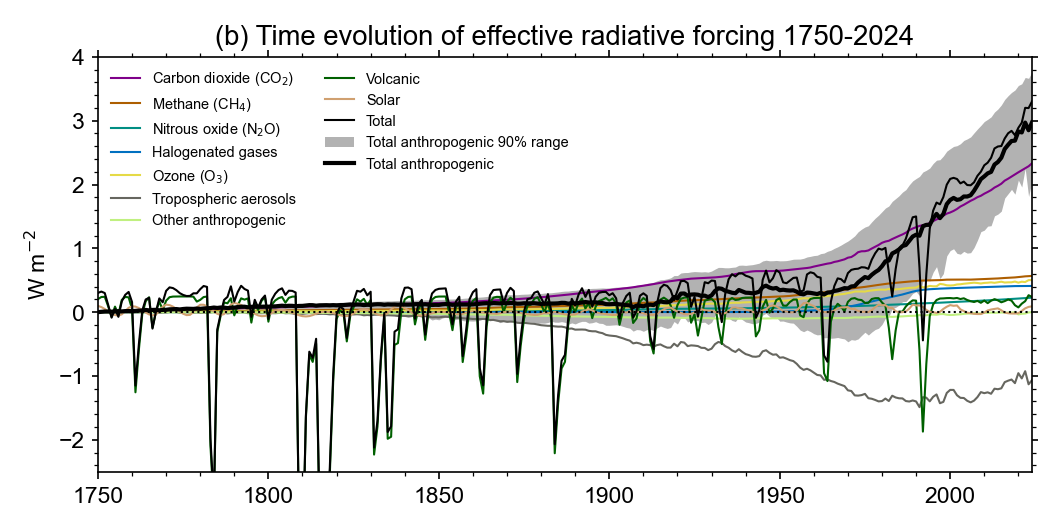
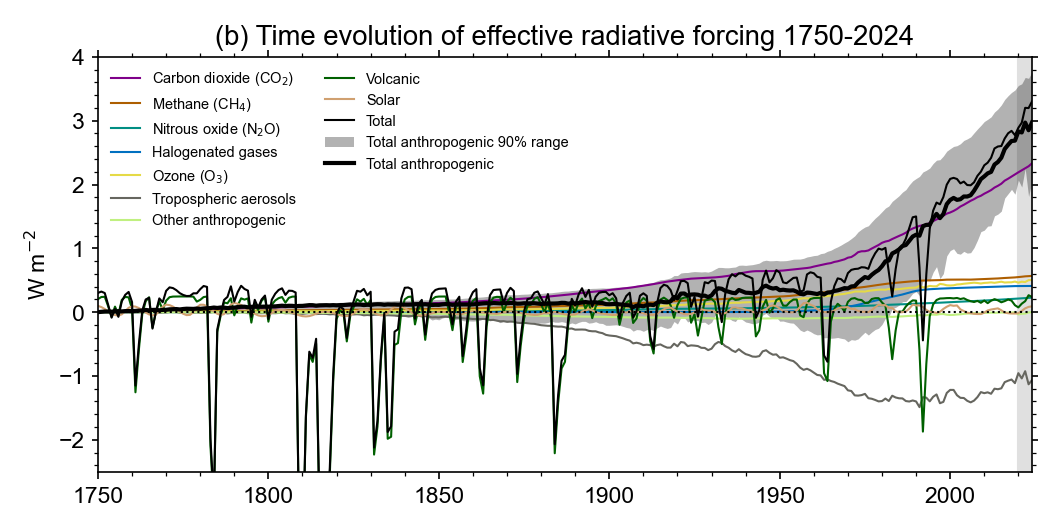
add grey bar

Changed region(s): [[0.9322, 0.3315, 0.9944, 0.904], [0.9322, 0.1205, 0.9944, 0.1507]]

diff --git a/notebooks/13_radiative-forcing-barchart.py b/notebooks/13_radiative-forcing-barchart.py
@@ -269,9 +269,10 @@ labels = {
 for specie in species:
     ax.plot(year, best[specie], color=colors[specie], lw=1, label=labels[specie])
 
+ax.fill_between(np.arange(2020, 2025), -5, 5, color="#e0e0e0")
+
 ax.fill_between(year, unc['anthro'][0,:], unc['anthro'][1,:], color=colors['anthro'], alpha=0.3, lw=0, label='Total anthropogenic 90% range')
 ax.plot(year, best['anthro'], color=colors['anthro'], lw=2, label=labels['anthro'])  
-
 
 ax.plot(0, 0, color='None', lw=0, label='\n')
 ax.plot(0, 0, color='None', lw=0, label='\n')
